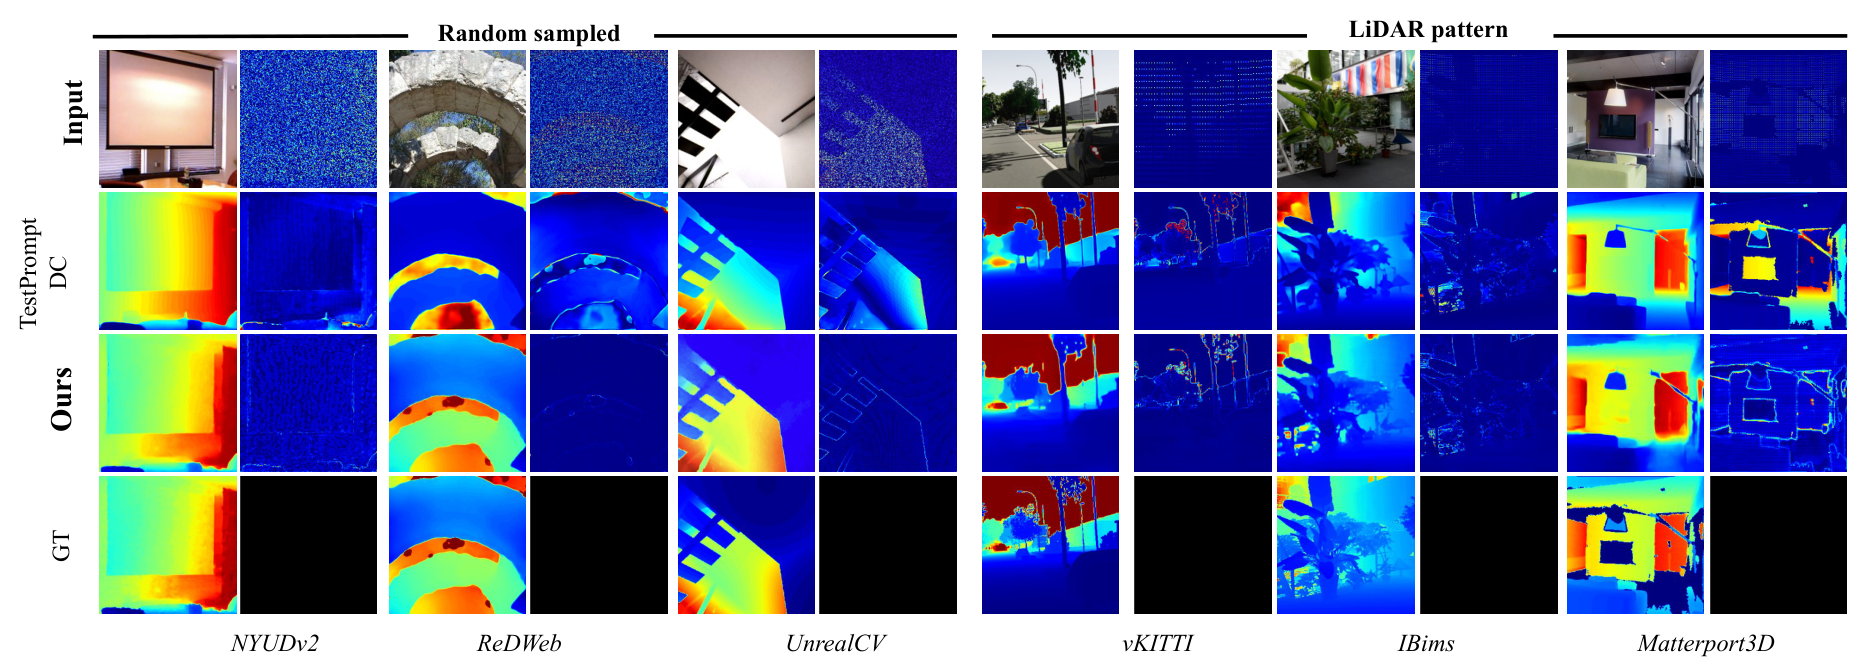
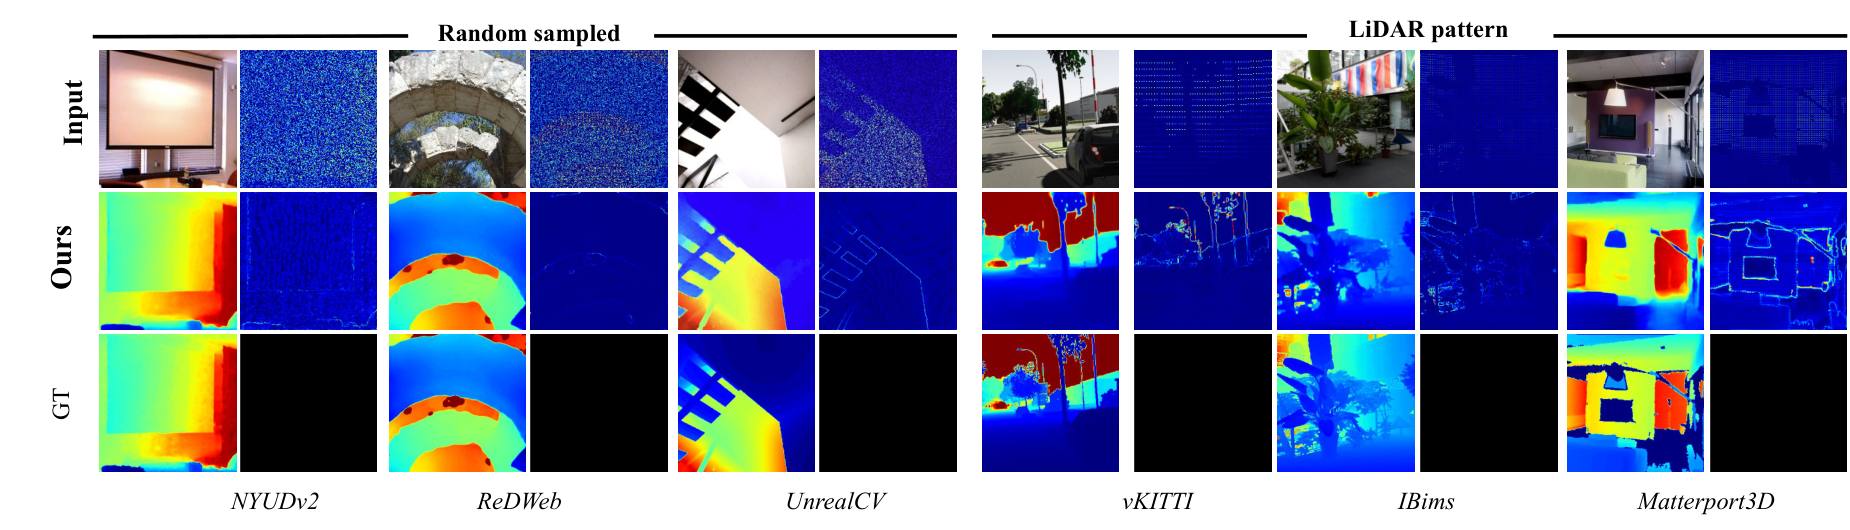
Remove TestPrompt row from homepage comparison

diff --git a/README.md b/README.md
@@ -15,7 +15,7 @@
 </div>
 
 <p align="center">
-  <img src="assets/qualitative_highlights.png" alt="Representative input, TestPrompt DC, JARRN and ground-truth rows across six datasets" width="100%">
+  <img src="assets/qualitative_highlights.png" alt="Input, JARRN and ground-truth depth results across six datasets" width="100%">
 </p>
 
 ---
